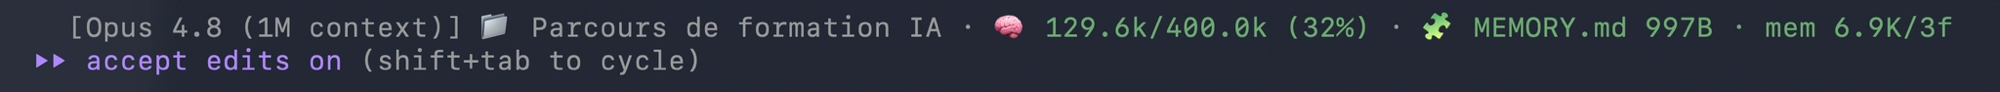
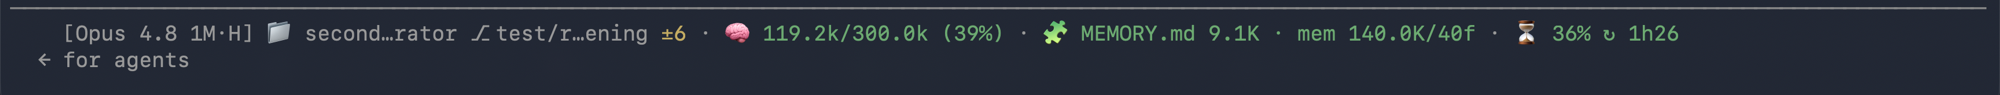
docs(readme): refresh status-line screenshots with real v1.4.0 shots
Replace the illustrative status-line images with live captures that show
the tightened caps in action: the truncated folder (second…rator) and
branch (test/r…ening) middle-ellipsis names that v1.4.0 introduced.

- statusline-warn.png (new) — ⚠️ warning tier at 61%, now the hero image
- statusline-overview.png — clean single-line anatomy shot at 42% green
- statusline-green.png — green tier at 39%
- statusline-red.png — 🤪 stupidity zone at 87%, with the auto-compact warning

Alt texts updated to match each new capture.

diff --git a/README.md b/README.md
@@ -12,7 +12,7 @@
 lives in your status line and shows — every turn, without you asking — how full your
 context is, so you can `/clear` at exactly the right moment.
 
-![Clepsydre status line, red tier: 244.6k/400.0k (61%)](assets/statusline-red.png)
+![Clepsydre status line, warning tier: [Opus 4.8 1M·H] folder second…rator, branch test/r…ening ±6, 183.8k/300.0k (61%) with the ⚠️ ease-off icon, MEMORY.md 9.1K, mem 140.0K/40f, rate window 39% resets in 1h22](assets/statusline-warn.png)
 
 > **Why "Clepsydre"?** A *clepsydra* is a water clock. In *Fort Boyard*, it slowly fills
 > the room until the door locks and you're trapped — *"Sors ! Sors ! Sors !"*. Your
@@ -44,7 +44,7 @@ after turn, but nothing keeps it in view — and **you can't steer what you can'
 
 Here it is live, with every segment on screen:
 
-![Clepsydre status line, all segments: [Opus 4.8·H] folder clepsydre, branch main, 40.6k/300.0k (13%) green, MEMORY.md 0B, mem 0B/0f, rate window 8% resets in 4h05](assets/statusline-overview.png)
+![Clepsydre status line, all segments: [Opus 4.8 1M·H] folder second…rator, branch test/r…ening ±6, 126.0k/300.0k (42%) green, MEMORY.md 9.1K, mem 140.0K/40f, rate window 39% resets in 1h23](assets/statusline-overview.png)
 
 - **Model · window size · reasoning effort · folder · git branch** — the model bracket packs
   three things: the model name, the **context window it exposes** as a compact badge (e.g. `1M`,
@@ -64,11 +64,11 @@ Here it is live, with every segment on screen:
 
 Plenty of headroom — 🧠 green, you're fine:
 
-![Clepsydre status line, green tier: 129.6k/400.0k (32%)](assets/statusline-green.png)
+![Clepsydre status line, green tier: 119.2k/300.0k (39%)](assets/statusline-green.png)
 
 Deep in the stupidity zone — 🤪 bold red, `/clear` now:
 
-![Clepsydre status line, red tier: 244.6k/400.0k (61%)](assets/statusline-red.png)
+![Clepsydre status line, red tier: 262.3k/300.0k (87%), 🤪 stupidity zone, 2% until auto-compact](assets/statusline-red.png)
 
 
 ### How to read it, piece by piece